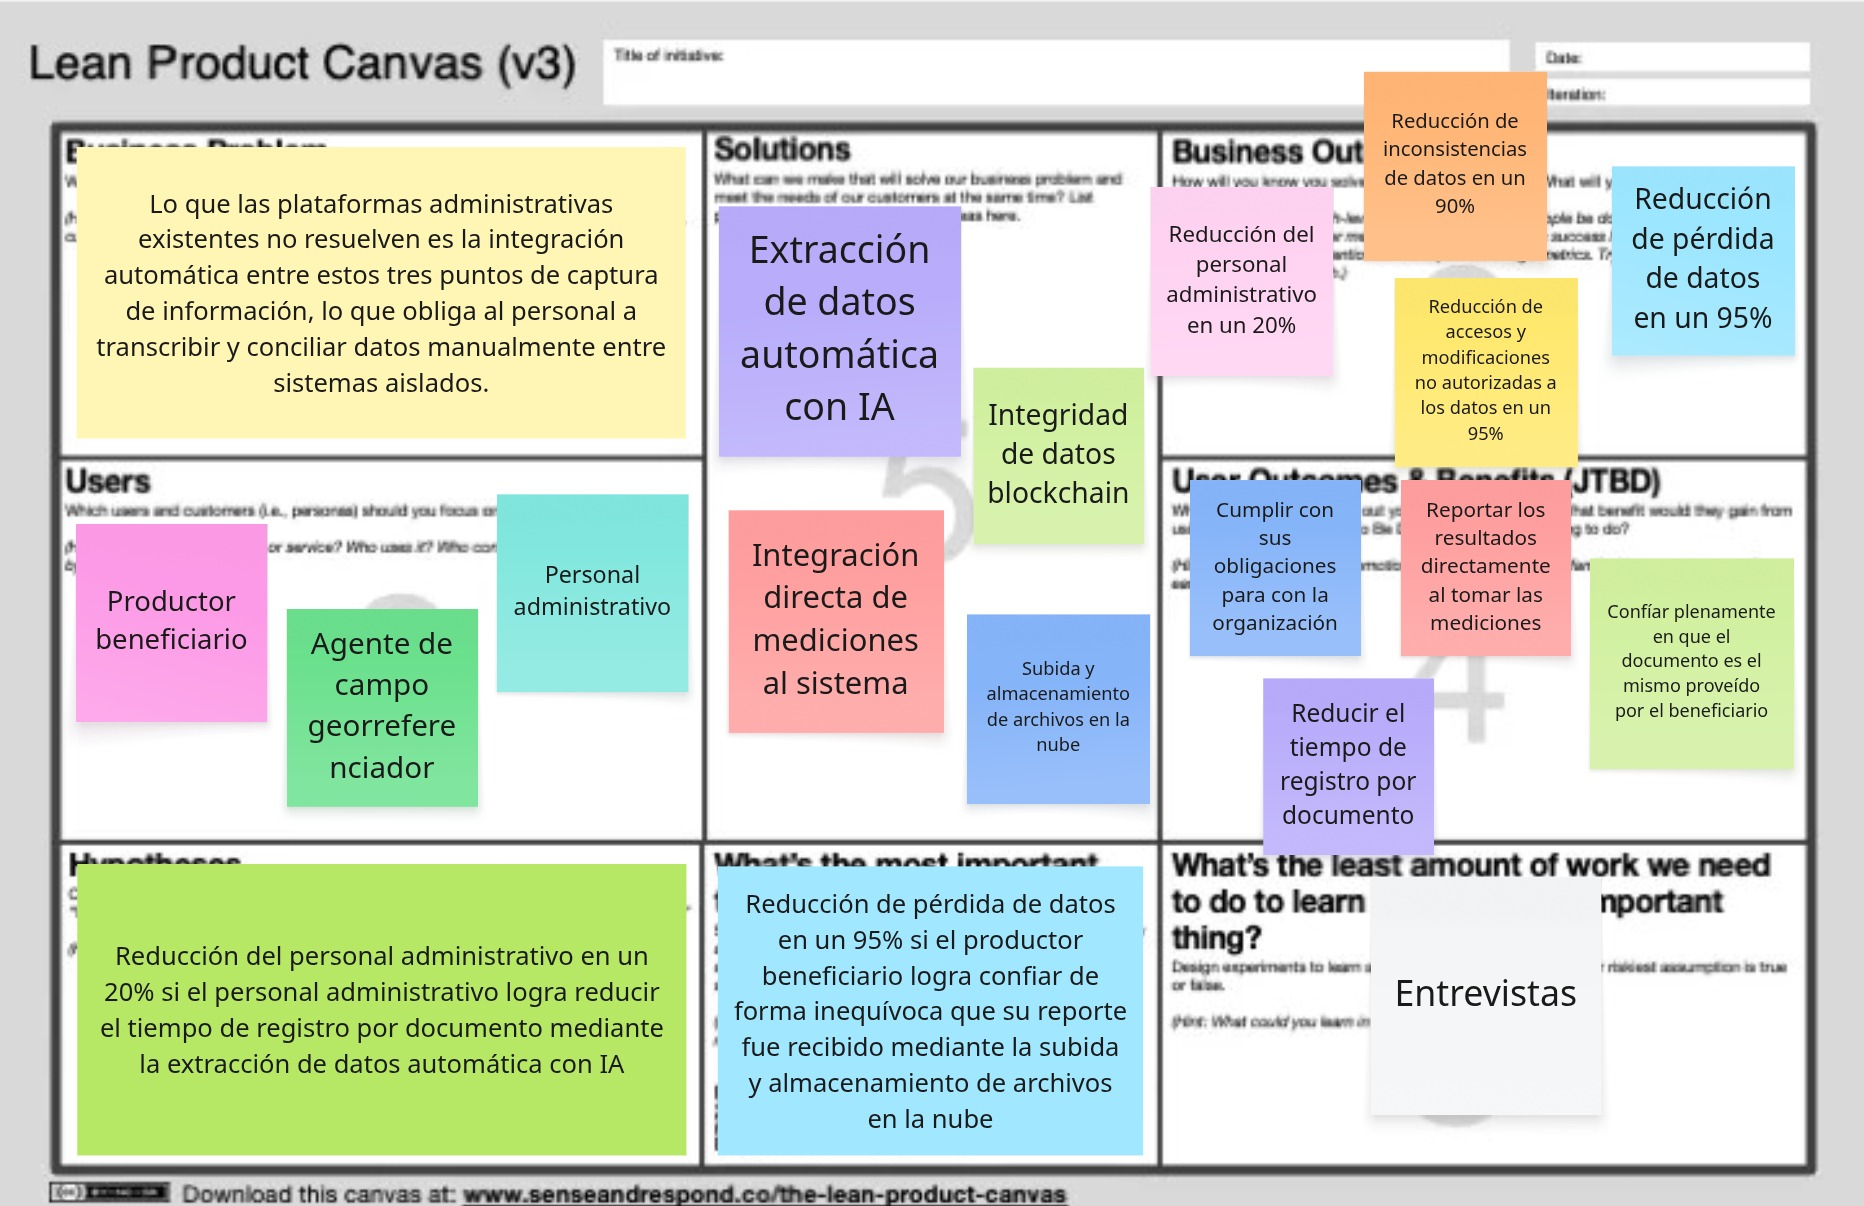
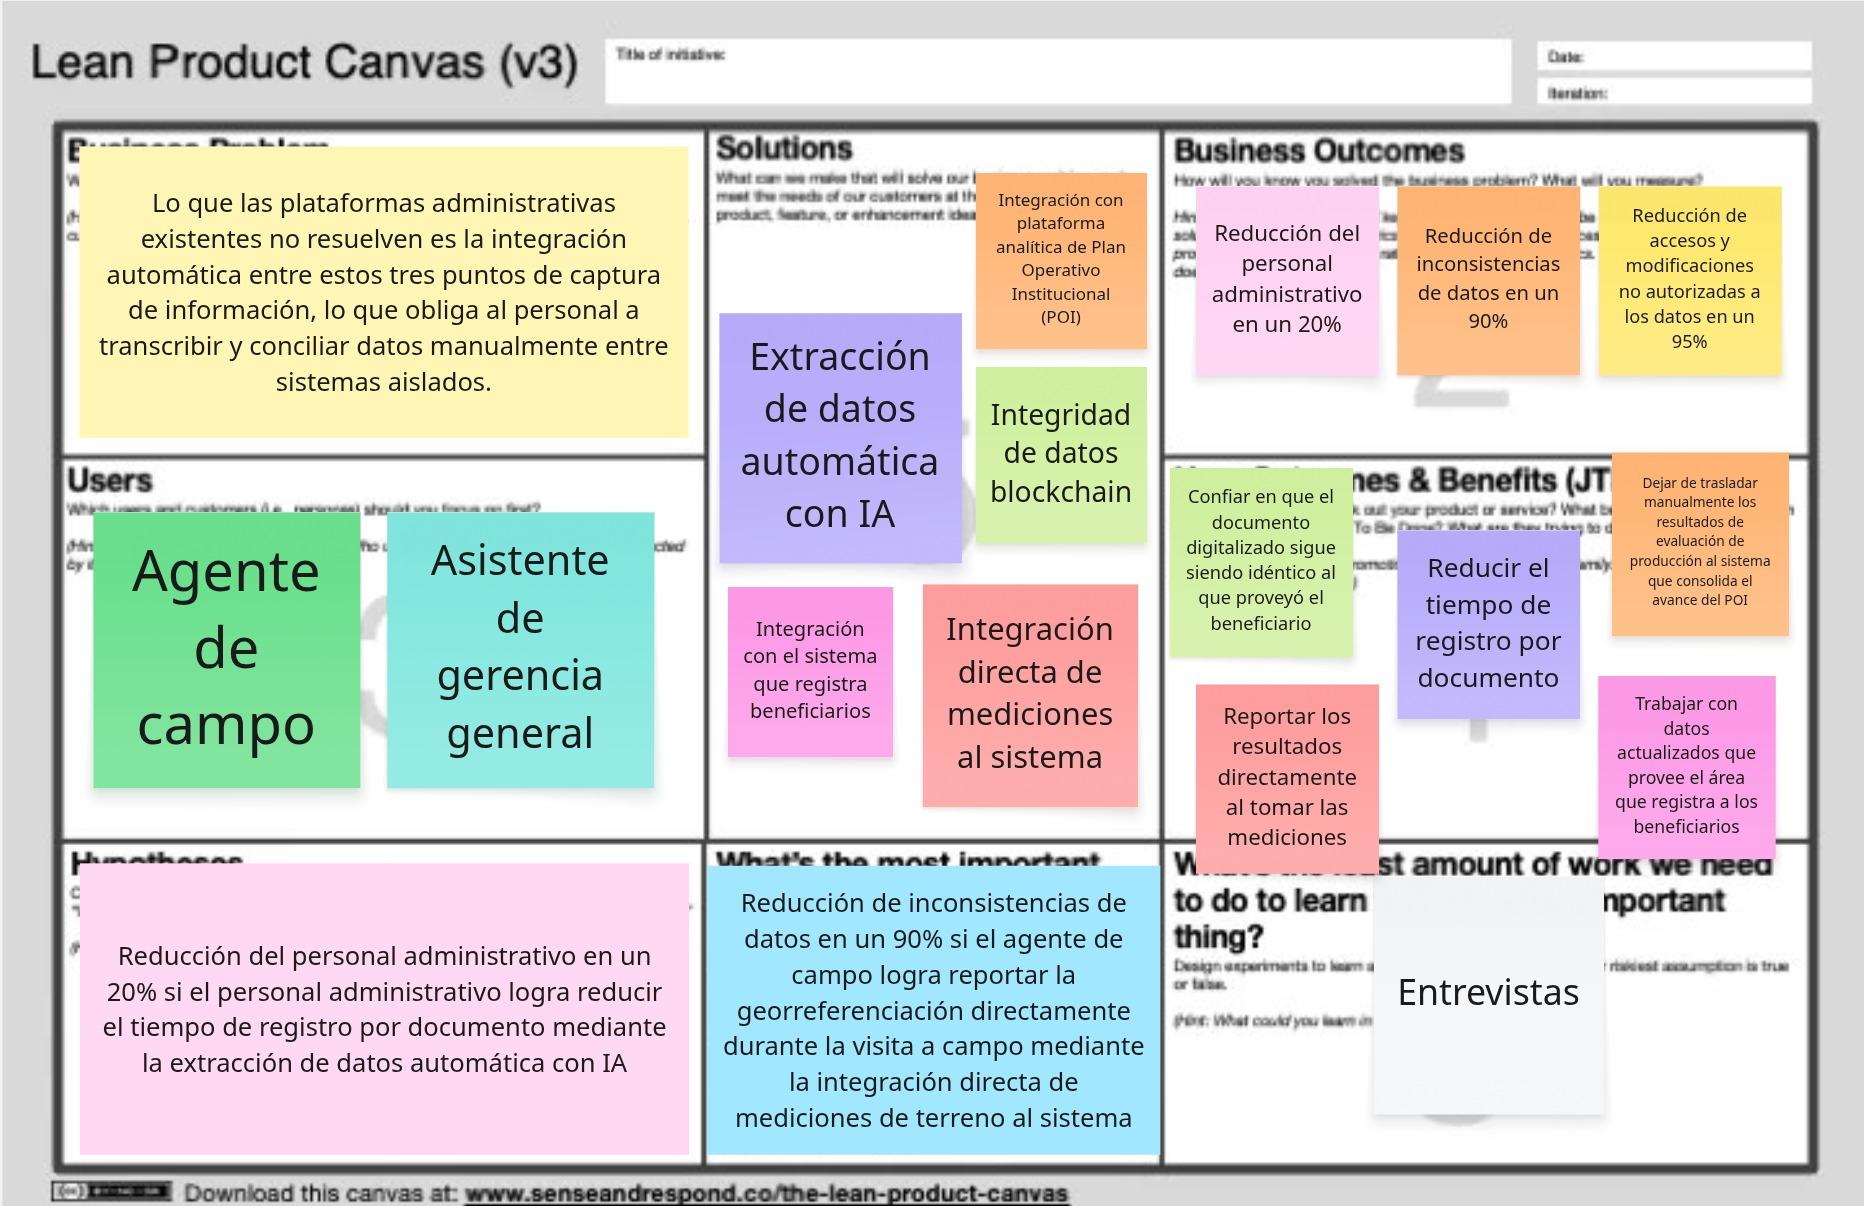
fix(capitulo-1): adjust project scope

diff --git a/sections/intro/solution/antecedentes.md b/sections/intro/solution/antecedentes.md
@@ -2,9 +2,19 @@ Una entidad pública de nuestro país gestiona un programa de apoyo agrícola me
 
 La OCDE señala que, aunque la mayoría de sus países miembro ya cuentan con algún sistema de interoperabilidad de datos para el sector público, en promedio solo el 56% de las instituciones públicas que disponen de dicho sistema lo utilizan efectivamente para compartir información entre sí, y que la infraestructura digital de gobierno suele quedar subutilizada porque las inversiones no llegan a funcionar como un sistema integrado (OECD, 2026). En la misma línea, la falta de interoperabilidad entre plataformas de gobierno se traduce en procesos manuales y dependientes de papel que reducen la productividad del personal, generan brechas en los reportes y multiplican el trabajo de conciliar registros entre áreas (The Canton Group, 2025).
 
-Ese patrón se repite en el programa que da origen a este proyecto, en tres frentes distintos. Primero, cuando un productor o una entidad externa presenta un documento en formato PDF, un funcionario administrativo debe leerlo y transcribir manualmente su contenido a la plataforma interna, en lugar de que el dato ingrese de forma automática. Segundo, cuando un agente de campo registra la ubicación de las parcelas de los productores con un dispositivo GNSS para construir la geomalla del programa, esa información de georreferenciación no siempre queda enlazada de forma directa con el registro administrativo del productor y su parcela. Tercero, los productores beneficiarios envían periódicamente un reporte en PDF sobre la producción obtenida en su parcela registrada, reporte que hoy también depende de una revisión y un traslado manual de datos para quedar asociado al historial de esa parcela.
+En las administraciones públicas locales del Perú persisten prácticas de gestión documental basadas en papel y registros fragmentados pese a los esfuerzos de digitalización, lo que mantiene a la gestión documental como la función de gobernanza que respalda la trazabilidad y la confiabilidad de los actos administrativos (Aguado-Riveros et al., 2026). En esta institución, esa misma lógica condiciona los flujos operativos y administrativos. Los archivos físicos en la práctica funcionan como fuente de verdad, pero los sistemas digitalizados operan con copias digitalizadas. A diferencia de los archivos físicos, las alteraciones o manipulaciones sobre una copia digitalizada no dejan un rastro visible ni verificable, por lo que el personal no puede confiar en que dicha copia siga siendo idéntica al documento físico que le dio origen.
 
-Enunciado del problema: la ausencia de un mecanismo que integre automáticamente la información proveniente de documentos PDF y de los registros de georreferenciación de campo con la plataforma administrativa del programa obliga al personal a transcribir y conciliar datos de forma manual, lo que ralentiza el proceso, consume tiempo del personal y del productor, e introduce riesgo de error humano en el registro de la información.
+El proyecto se propone mejorar un flujo operacional concreto, correspondiente a un servicio de apoyo brindado a los ciudadanos para la producción de productos alternativos. El flujo actualmente se puede describir de la siguiente manera:
+1. Una persona natural accede como beneficiaria de la organización tras un proceso de evaluación a cargo de un área funcional específica con su propio sistema.
+2. Esta persona decide registrar una o varias parcelas en las que realizará actividades agrícolas para la producción de productos alternativos.
+3. Un agente de campo es enviado a constatar la posición geográfica exacta de la parcela que se pretende registrar a su nombre.
+4. Posteriormente, este mismo agente tiene que registrar las coordenadas y registrarlas a nombre del beneficiario mediante un sistema de geolocalización.
+5. De forma periódica, agentes de campo realizarán evaluaciones presencialmente al beneficiario para constatar las actividades realizadas y la producción obtenida, elaborando un reporte en físico con un formato establecido.
+6. Este documento se hace llegar a la sede central de la institución, en donde es digitalizado y posteriormente almacenado.
+7. Un administrativo adquiere acceso a la copia digitalizada y constata los datos registrados sobre la evaluación en dicho sistema.
+8. Tras haber constatado, los datos son subidos manualmente a otro sistema que agrega los datos para visualizar el avance del Plan Estratégico Institucional (PEI) y del Plan Operativo Institucional (POI).
+
+Enunciado del problema: la ausencia de un mecanismo que integre automáticamente la georreferenciación capturada en campo, los reportes de evaluación de producción una vez digitalizados y el traslado de esa información a los sistemas que consolidan el avance del PEI y del POI, sumada a la falta de una garantía sobre la integridad de los documentos digitalizados frente a su versión física original, obliga al personal a verificar y trasladar datos de forma manual, lo que ralentiza el proceso, consume tiempo del personal y del beneficiario, e introduce riesgo de error humano en el registro de la información.
 
 <div style="width: 100%; max-width: 680px; margin: 0 auto; font-family: Arial, sans-serif; font-size: 14px;">
     <table style="width: 100%; border-collapse: collapse; border: 1px solid #333; table-layout: fixed;">
@@ -21,31 +31,31 @@ Enunciado del problema: la ausencia de un mecanismo que integre automáticamente
         <tbody>
             <tr>
                 <td style="border: 1px solid #333; padding: 10px; vertical-align: top;"><strong>Who</strong><br>¿Quién?</td>
-                <td style="border: 1px solid #333; padding: 10px; vertical-align: top;">Las personas que proporcionan el documento PDF con su información, y los funcionarios administrativos encargados de leer dicho documento y registrar sus datos en la plataforma destino.</td>
+                <td style="border: 1px solid #333; padding: 10px; vertical-align: top;">Los agentes de campo que capturan la georreferenciación y las evaluaciones de producción, los beneficiarios evaluados, y el asistente de gerencia general que digitaliza, verifica y traslada esa información entre sistemas.</td>
             </tr>
             <tr>
                 <td style="border: 1px solid #333; padding: 10px; vertical-align: top;"><strong>What</strong><br>¿Qué?</td>
-                <td style="border: 1px solid #333; padding: 10px; vertical-align: top;">La lentitud de los procesos administrativos que se origina cuando un funcionario debe leer manualmente un documento PDF para trasladar su información a otra plataforma.</td>
+                <td style="border: 1px solid #333; padding: 10px; vertical-align: top;">La dependencia de procesos manuales para trasladar y conciliar la georreferenciación, los reportes de evaluación de producción y los documentos digitalizados entre los sistemas que la organización utiliza.</td>
             </tr>
             <tr>
                 <td style="border: 1px solid #333; padding: 10px; vertical-align: top;"><strong>Where</strong><br>¿Dónde?</td>
-                <td style="border: 1px solid #333; padding: 10px; vertical-align: top;">En organizaciones cuyos procesos administrativos reciben documentación en formato PDF como insumo de entrada para el registro de información en un sistema propio.</td>
+                <td style="border: 1px solid #333; padding: 10px; vertical-align: top;">En el flujo operativo del programa de apoyo agrícola, desde el registro de la parcela y la evaluación en campo hasta la consolidación de esa información en los sistemas que reportan el avance del PEI y del POI.</td>
             </tr>
             <tr>
                 <td style="border: 1px solid #333; padding: 10px; vertical-align: top;"><strong>When</strong><br>¿Cuándo?</td>
-                <td style="border: 1px solid #333; padding: 10px; vertical-align: top;">Cada vez que se recibe un documento PDF que debe registrarse en la plataforma destino, lo que ocurre de forma recurrente dentro del flujo diario de trabajo administrativo.</td>
+                <td style="border: 1px solid #333; padding: 10px; vertical-align: top;">En cada ciclo de registro de parcelas y de evaluación periódica en campo, lo que ocurre de forma recurrente durante la ejecución del programa.</td>
             </tr>
             <tr>
                 <td style="border: 1px solid #333; padding: 10px; vertical-align: top;"><strong>Why</strong><br>¿Por qué?</td>
-                <td style="border: 1px solid #333; padding: 10px; vertical-align: top;">Porque no existe un mecanismo que extraiga automáticamente los datos del documento PDF hacia la plataforma destino, por lo que el funcionario debe leer el documento e identificar la información relevante antes de registrarla.</td>
+                <td style="border: 1px solid #333; padding: 10px; vertical-align: top;">Porque no existe un mecanismo que integre automáticamente la georreferenciación capturada en campo con el registro del beneficiario, ni que traslade los reportes de evaluación digitalizados hacia los sistemas de consolidación, ni que garantice que el documento digitalizado sigue siendo idéntico al documento físico original.</td>
             </tr>
             <tr>
                 <td style="border: 1px solid #333; padding: 10px; vertical-align: top;"><strong>How</strong><br>¿Cómo?</td>
-                <td style="border: 1px solid #333; padding: 10px; vertical-align: top;">El funcionario abre el documento PDF, ubica los campos de información requeridos y los transcribe manualmente, uno por uno, en la plataforma destino.</td>
+                <td style="border: 1px solid #333; padding: 10px; vertical-align: top;">El agente de campo registra las coordenadas de la parcela en un sistema de geolocalización aparte y elabora el reporte de evaluación en físico; ese reporte se digitaliza en la sede central, y el asistente de gerencia general verifica los datos y los traslada manualmente al sistema que agrega la información del PEI y del POI.</td>
             </tr>
             <tr>
                 <td style="border: 1px solid #333; padding: 10px; vertical-align: top;"><strong>How Much</strong><br>¿Cuánto?</td>
-                <td style="border: 1px solid #333; padding: 10px; vertical-align: top;">El impacto se refleja en el tiempo que cada funcionario dedica a la lectura y transcripción manual de cada documento, tiempo que se multiplica por el volumen de documentos procesados y que además introduce riesgo de error humano en el registro de los datos.</td>
+                <td style="border: 1px solid #333; padding: 10px; vertical-align: top;">El impacto se refleja en el tiempo que el personal dedica a verificar y trasladar manualmente los datos entre sistemas, en el riesgo de error humano en cada traslado, y en la falta de garantía sobre la integridad de los documentos digitalizados frente a su versión física.</td>
             </tr>
         </tbody>
     </table>

diff --git a/sections/intro/solution/lean_ux/hypothesis.md b/sections/intro/solution/lean_ux/hypothesis.md
@@ -1,7 +1,9 @@
-- Reducción del personal administrativo en un 20% si el personal administrativo logra reducir el tiempo de registro por documento mediante la extracción de datos automática con IA.
+- Reducción de inconsistencias de datos en un 90% si el asistente de gerencia general logra trabajar con datos actualizados que provee el área que registra a los beneficiarios mediante la integración con el sistema que registra a los productores.
 
-- Reducción de pérdida de datos en un 95% si el productor beneficiario logra confiar de forma inequívoca que su reporte fue recibido mediante la subida y almacenamiento de archivos en la nube.
+- Reducción de inconsistencias de datos en un 90% si el agente de campo logra reportar la georreferenciación directamente durante la visita a campo mediante la integración directa de mediciones de terreno al sistema.
 
-- Reducción de inconsistencias de datos en un 90% si el agente de campo georreferenciador logra reportar los resultados directamente al tomar las mediciones mediante la integración directa de mediciones al sistema.
+- Reducción del asistente de gerencia general en un 20% si el asistente de gerencia general logra reducir el tiempo de registro por documento mediante la extracción de datos automática con IA.
 
-- Reducción de accesos y modificaciones no autorizadas a los datos en un 95% si el personal administrativo logra confiar plenamente en que el documento es el mismo proveído por el beneficiario mediante la integridad de datos blockchain.
+- Reducción de inconsistencias de datos en un 90% si el asistente de gerencia general logra dejar de trasladar manualmente los resultados de evaluación de producción al sistema que consolida el avance del POI mediante la integración con plataforma analítica de Plan Operativo Institucional (POI).
+
+- Reducción de accesos y modificaciones no autorizadas a los datos en un 95% si el asistente de gerencia general logra confiar en que el documento digitalizado sigue siendo idéntico al que proveyó el beneficiario mediante la integridad de datos blockchain.

diff --git a/sections/intro/solution/lean_ux/assumptions.md b/sections/intro/solution/lean_ux/assumptions.md
@@ -1,22 +1,22 @@
 Business outcomes:
-- Reducción del personal administrativo en un 20%.
+- Reducción del asistente de gerencia general en un 20%.
 - Reducción de inconsistencias de datos en un 90%.
 - Reducción de accesos y modificaciones no autorizadas a los datos en un 95%.
-- Reducción de pérdida de datos en un 95%.
 
 Users:
-- Personal administrativo.
-- Productor beneficiario.
-- Agente de campo georreferenciador.
+- Asistente de gerencia general.
+- Agente de campo.
 
 Solutions / features:
+- Integración con el sistema que registra a los beneficiarios.
+- Integración directa de mediciones de terreno al sistema.
 - Extracción de datos automática con IA.
-- Subida y almacenamiento  de archivos en la nube.
-- Integración directa de mediciones al sistema.
+- Integración con plataforma analítica de Plan Operativo Institucional (POI).
 - Integridad de datos blockchain.
 
 User outcomes:
+- Trabajar con datos actualizados que provee el área que registra a los beneficiarios.
+- Reportar la georreferenciación directamente durante la visita a campo.
 - Reducir el tiempo de registro por documento.
-- Confiar de forma inequívoca que su reporte fue recibido.
-- Reportar los resultados directamente al tomar las mediciones.
-- Confíar plenamente en que el documento es el mismo proveído por el beneficiario.
+- Dejar de trasladar manualmente los resultados de evaluación de producción al sistema que consolida el avance del POI.
+- Confiar en que el documento digitalizado sigue siendo idéntico al que proveyó el beneficiario.

diff --git a/sections/bibliografia.md b/sections/bibliografia.md
@@ -1,3 +1,5 @@
+Aguado-Riveros, U. I., Espinoza-Quispe, L. E., Santillán-Enciso, C. L., Silva-Infantes, M., Barrionuevo-Inca-Roca, Y. A., Astuñaupa-Flores, S. N., Poma-Lagos, L. A., Navarro-Véliz, J. A., & González-Prida, V. (2026). *Reducing administrative burden through simplification and document management in local governments: Evidence from a district-level public organization*. Societies, 16(3), 91. https://doi.org/10.3390/soc16030091
+
 Burch, T. (2016, January 6). *Data is the crop: GNSS used by surveyors and farmers*. GPS World. https://www.gpsworld.com/data-is-the-crop-gnss-used-by-surveyors-and-farmers/
 
 International Food Policy Research Institute. (2025, December 2). *Beyond the algorithm: The need for farmer participation and data justice in digital agricultural technology*. IFPRI Blog. https://www.ifpri.org/blog/beyond-the-algorithm-the-need-for-farmer-participation-and-data-justice-in-digital-agricultural-technology/

diff --git a/sections/intro/solution/lean_ux/problems.md b/sections/intro/solution/lean_ux/problems.md
@@ -1,3 +1,3 @@
 El estado actual de la gestión administrativa de programas públicos de apoyo agrícola se ha enfocado principalmente en el funcionamiento individual de flujos de usuario, sin generar una integración completa.
 
-Lo que las plataformas administrativas existentes no resuelven es la integración automática entre estos tres puntos de captura de información, lo que obliga al personal a transcribir y conciliar datos manualmente entre sistemas aislados.
+Lo que las plataformas administrativas existentes no resuelven es la integración automática entre estos puntos de captura de información y los sistemas externos que los reciben, ni la posibilidad de verificar que un registro digitalizado sigue siendo idéntico al dato entregado originalmente, lo que obliga al personal a transcribir y conciliar datos manualmente entre sistemas aislados y a operar sin certeza sobre la integridad de esos registros.
